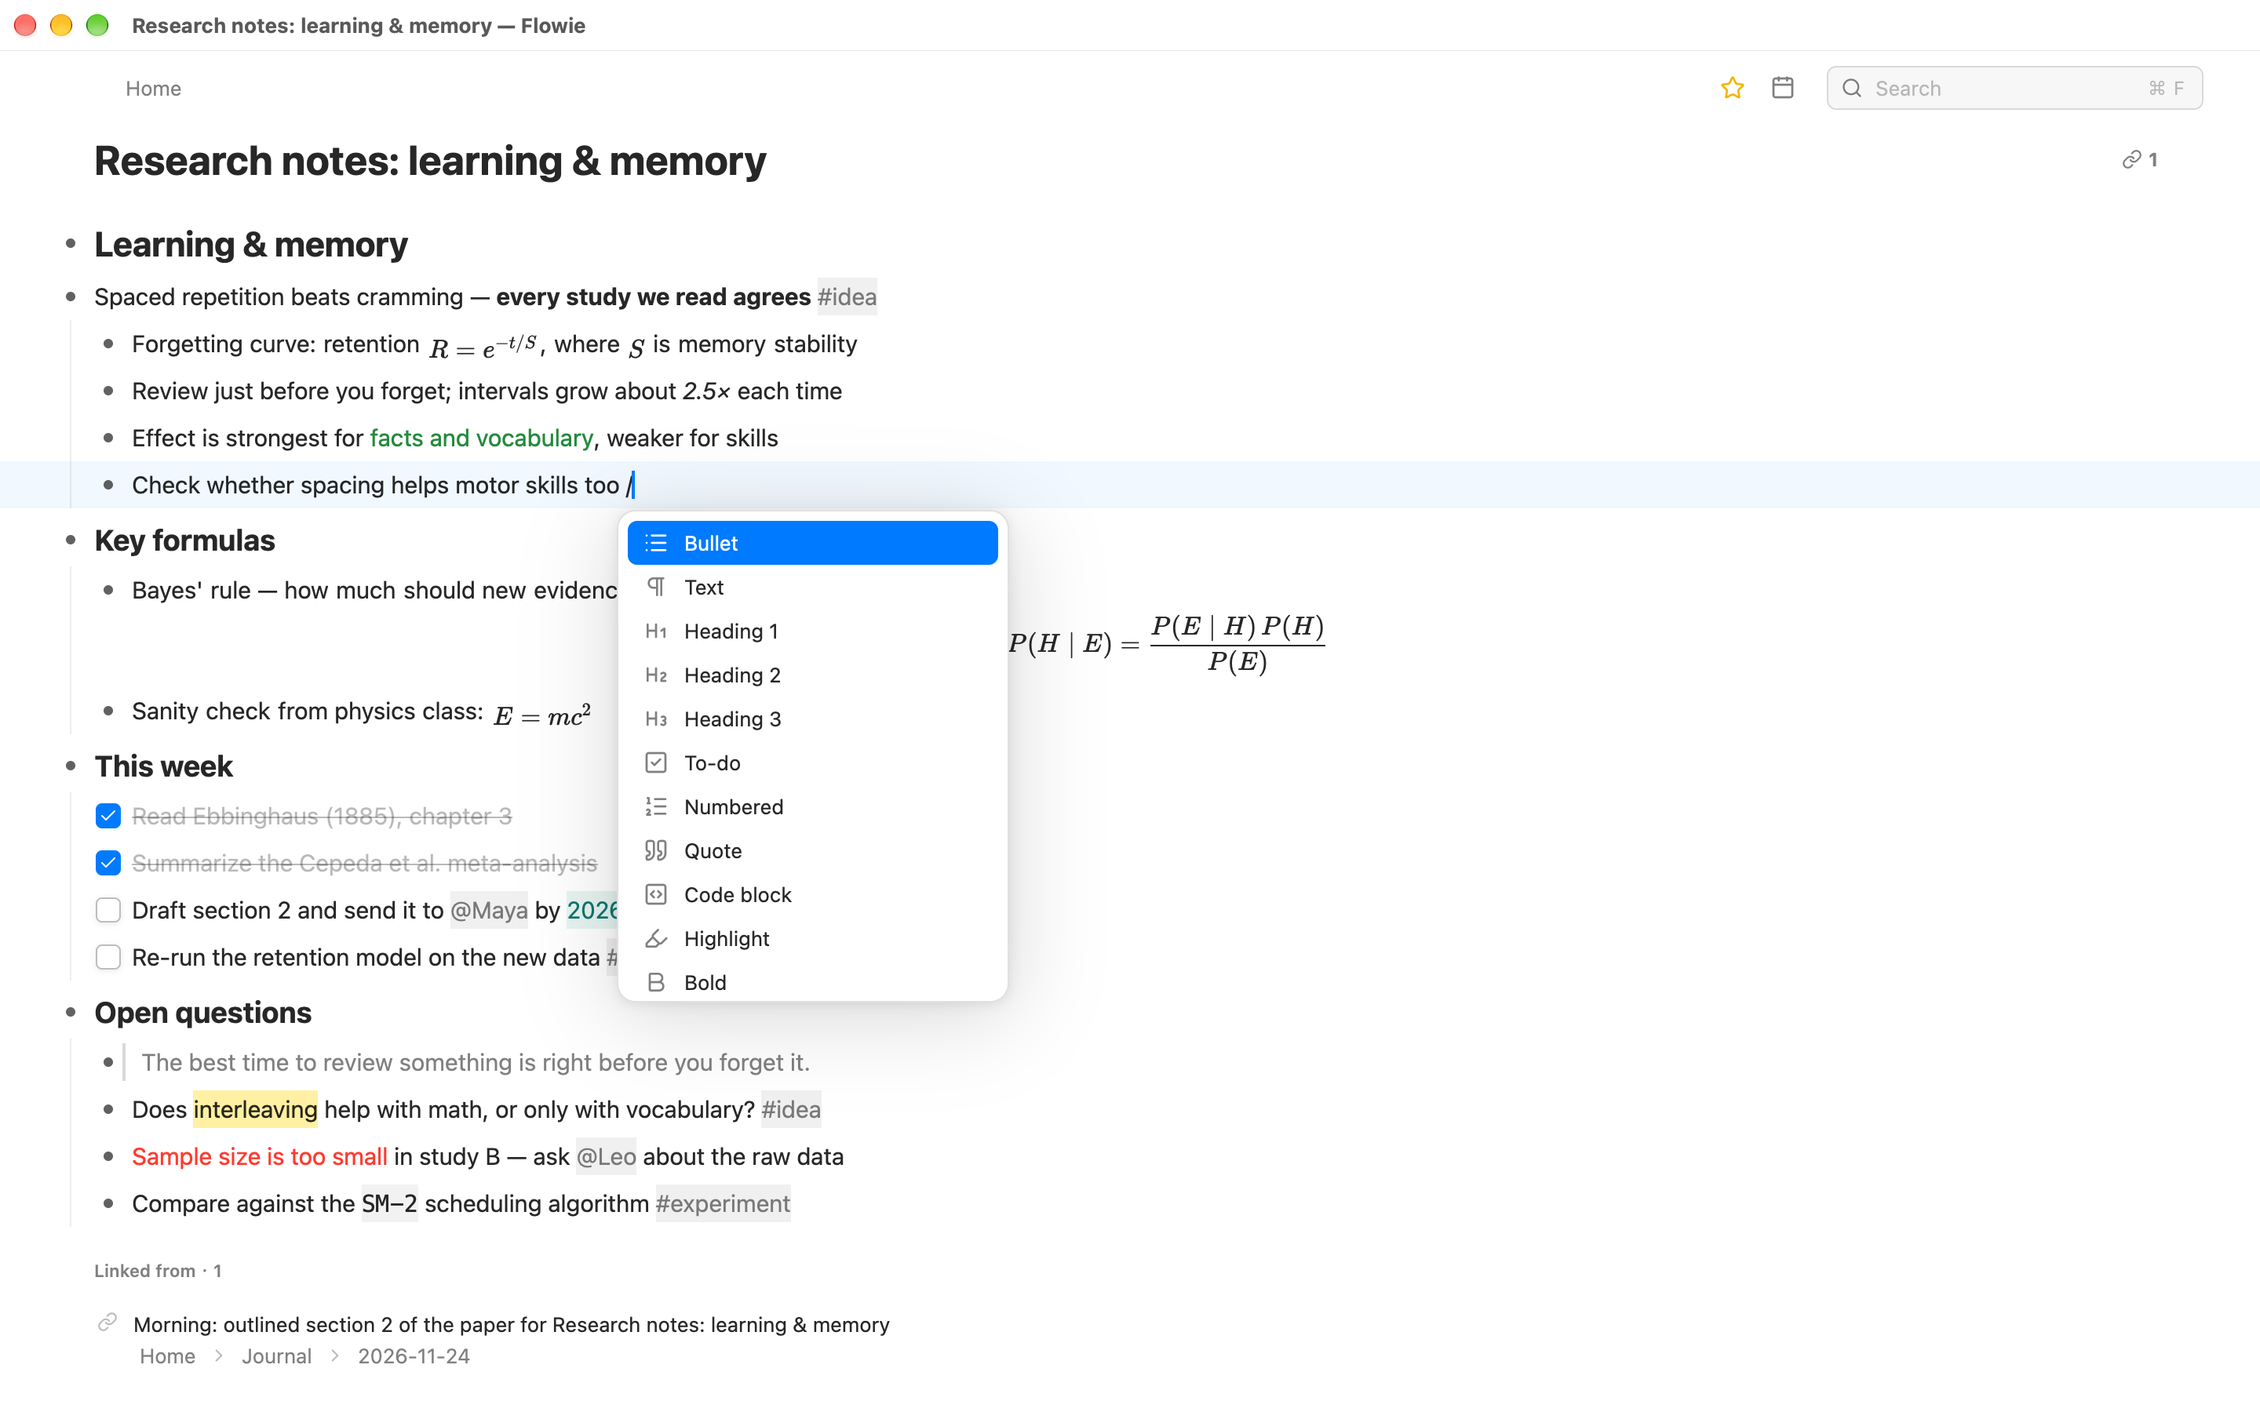
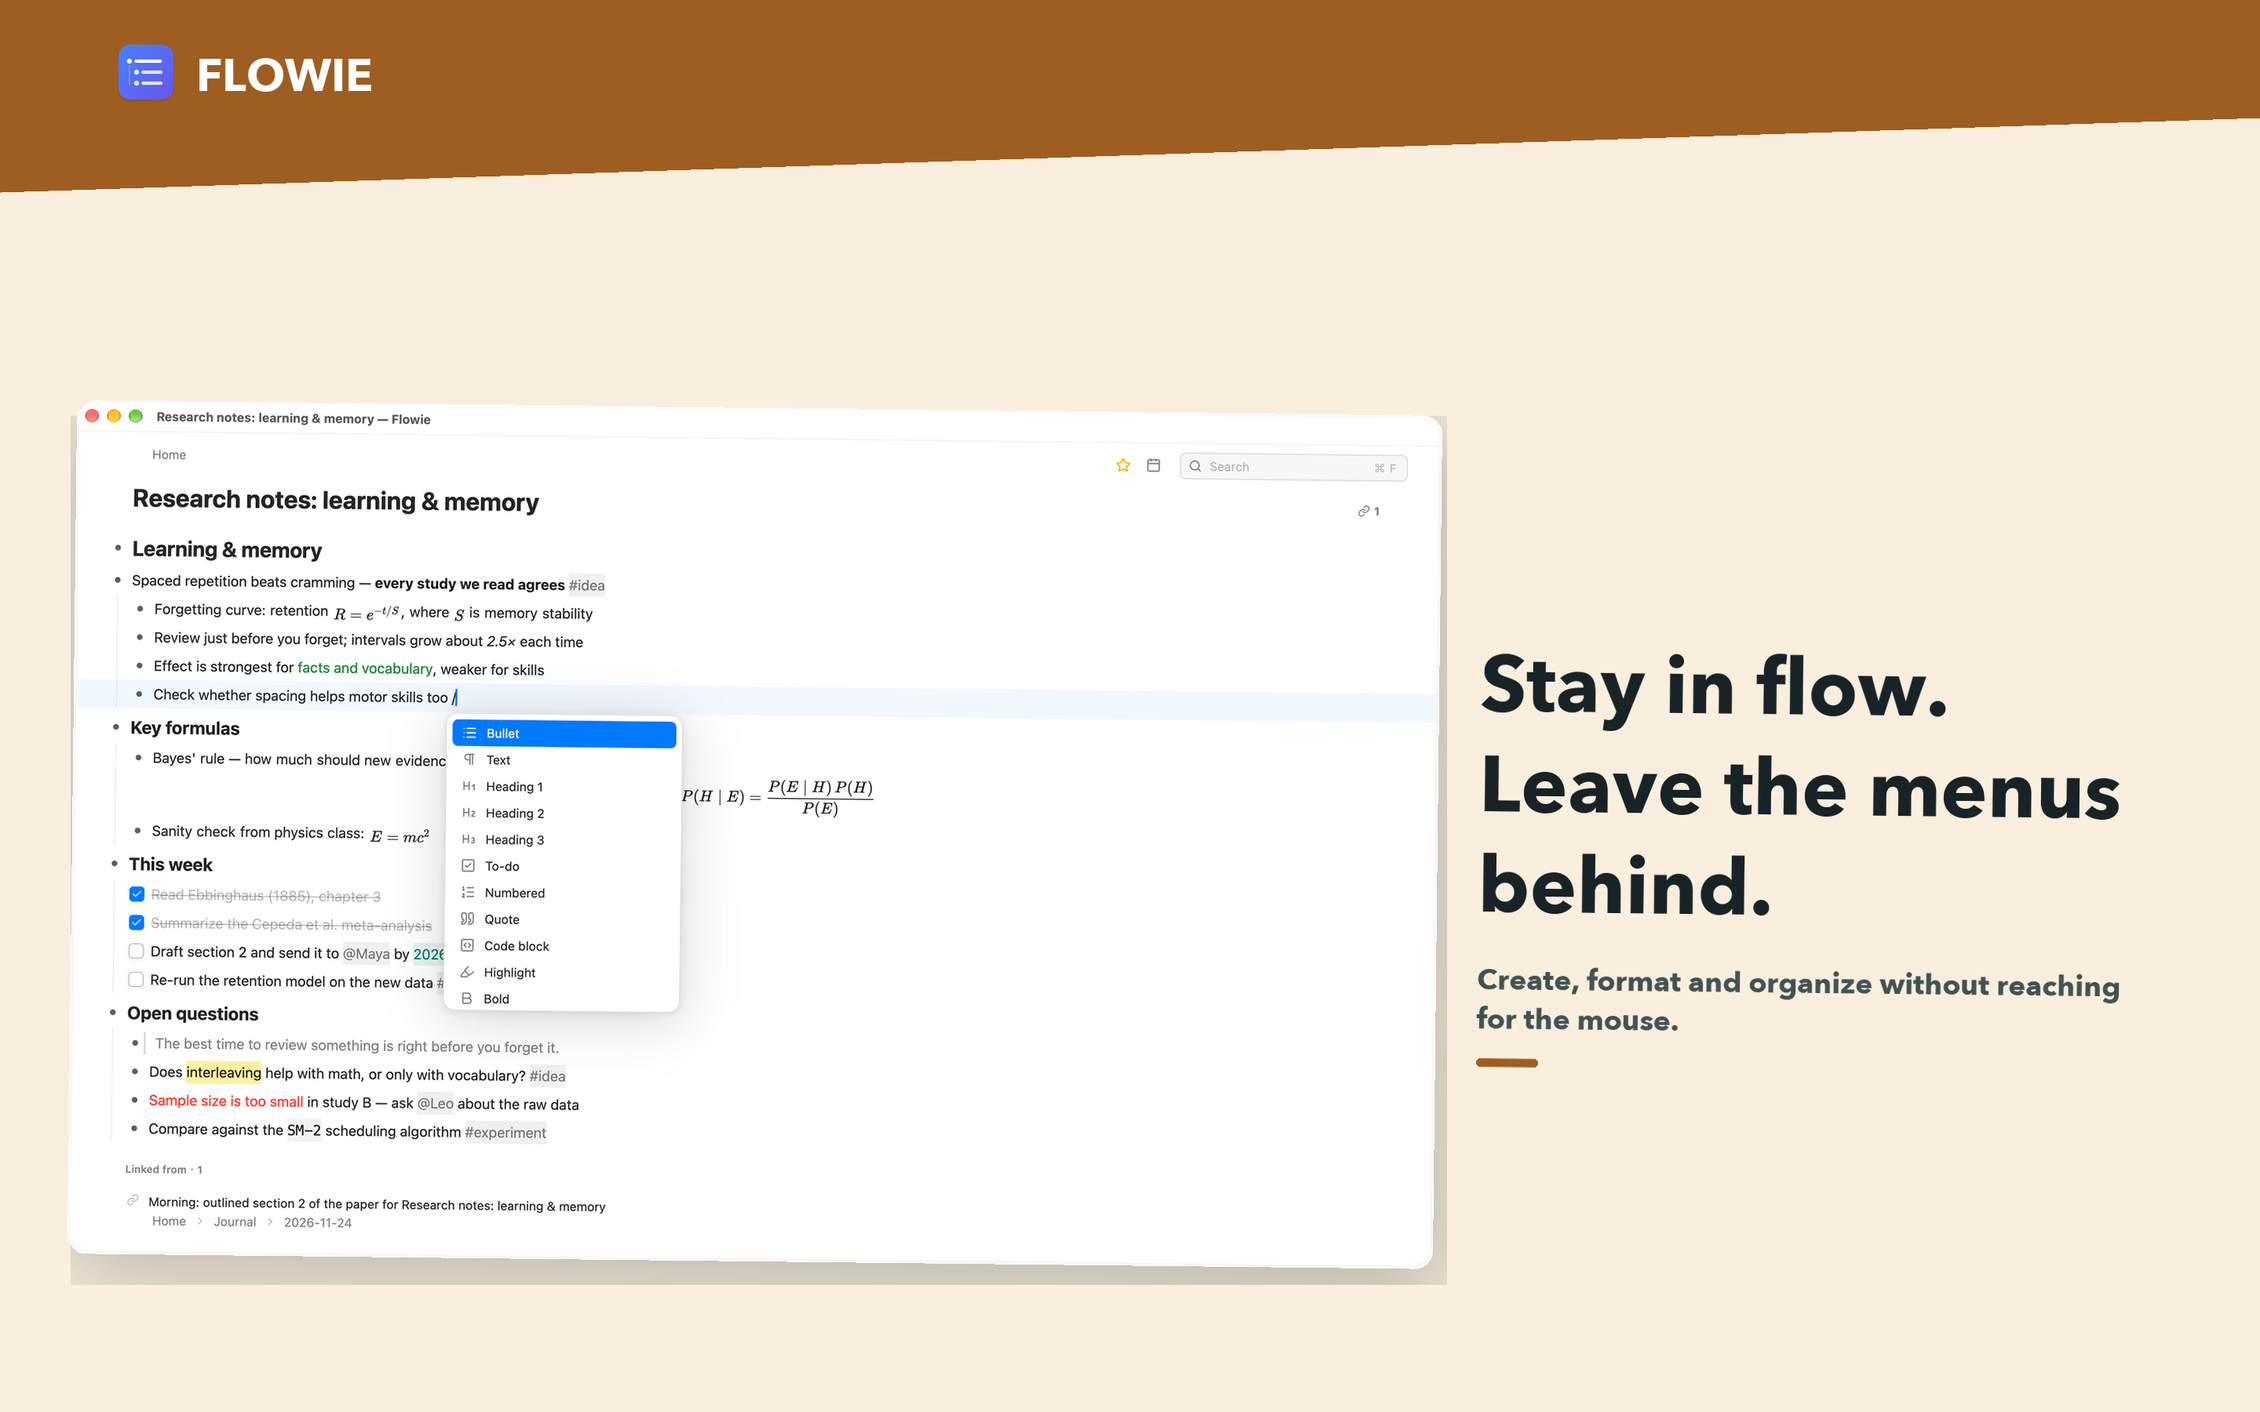
Polish App Store screenshots and website

diff --git a/website/style.css b/website/style.css
@@ -32,8 +32,8 @@
   --radius-window: 12px;
 
   /* Colours — light */
-  --bg: #f5f5f7;
-  --bg-top: #ffffff;
+  --bg: #f4f6f5;
+  --bg-top: #fbfcfa;
   --surface: #ffffff;
   --surface-2: #fbfbfd;
   --sunken: #ececf0;
@@ -42,9 +42,9 @@
   --text-3: #6e6e73;
   --hairline: rgba(0, 0, 0, .1);
   --hairline-strong: rgba(0, 0, 0, .16);
-  --accent: #0066cc;
-  --accent-hover: #0058b0;
-  --glow: rgba(64, 120, 255, .14);
+  --accent: #087c78;
+  --accent-hover: #066561;
+  --glow: rgba(24, 148, 128, .1);
   --toolbar: rgba(246, 246, 248, .78);
   --code-bg: rgba(0, 0, 0, .05);
   --fill: rgba(118, 118, 128, .12);
@@ -75,7 +75,7 @@
   --tint-indigo: #7f86ff, #4a4fd8;
 
   --ease: cubic-bezier(.25, .1, .25, 1);
-  --max: 1080px;
+  --max: 1160px;
   --max-narrow: 760px;
 }
 
@@ -131,7 +131,7 @@ body {
   background: var(--bg) linear-gradient(180deg, var(--bg-top) 0, var(--bg) 560px) no-repeat;
   color: var(--text);
   font: 17px/1.55 var(--font);
-  letter-spacing: -.01em;
+  letter-spacing: 0;
   -webkit-font-smoothing: antialiased;
   -moz-osx-font-smoothing: grayscale;
   overflow-x: hidden;
@@ -153,7 +153,7 @@ a:hover { color: var(--accent-hover); text-decoration: underline; text-underline
 h1, h2, h3 {
   font-family: var(--font-display);
   color: var(--text);
-  letter-spacing: -.022em;
+  letter-spacing: 0;
   line-height: 1.15;
   margin: 0;
 }
@@ -218,7 +218,7 @@ b, strong { font-weight: 600; }
   font-family: var(--font-display);
   font-weight: 600;
   font-size: 17px;
-  letter-spacing: -.01em;
+  letter-spacing: 0;
 }
 .brand:hover { color: var(--text); text-decoration: none; }
 .brand img { width: 28px; height: 28px; filter: drop-shadow(0 1px 1.5px rgba(0, 0, 0, .2)); }
@@ -324,32 +324,28 @@ html:not(.lang-en):not(.lang-zh) .segmented { display: none; }
 .hero {
   position: relative;
   text-align: center;
-  padding: var(--space-9) 0 var(--space-7);
+  padding: var(--space-8) 0 var(--space-6);
 }
 .hero::before {
-  content: "";
-  position: absolute;
-  inset: 0;
-  z-index: -1;
-  background: radial-gradient(600px 300px at 50% 30%, var(--glow), transparent 70%);
-  pointer-events: none;
+  content: none;
 }
 .app-icon {
   display: block;
-  width: 144px;
-  height: 144px;
-  margin: 0 auto var(--space-5);
+  width: 78px;
+  height: 78px;
+  margin: 0;
   filter: drop-shadow(0 2px 4px rgba(0, 0, 0, .12)) drop-shadow(0 14px 24px rgba(0, 0, 0, .16));
 }
+.hero-brand { display: flex; justify-content: center; align-items: center; gap: var(--space-4); }
 .hero h1 {
-  font-size: clamp(40px, 7vw, 64px);
+  font-size: clamp(40px, 6vw, 60px);
   font-weight: 700;
-  letter-spacing: -.035em;
+  letter-spacing: 0;
 }
 .tagline {
-  max-width: 640px;
+  max-width: 700px;
   margin: var(--space-4) auto var(--space-6);
-  font-size: clamp(18px, 2.4vw, 22px);
+  font-size: 19px;
   line-height: 1.45;
   color: var(--text-2);
 }
@@ -362,8 +358,8 @@ html:not(.lang-en):not(.lang-zh) .segmented { display: none; }
 }
 
 /* The desk the main window sits on */
-.stage { padding: var(--space-5) 0 var(--space-8); }
-.stage .window { max-width: 1000px; margin: 0 auto; }
+.stage { padding: var(--space-4) 0 var(--space-8); }
+.stage .window { max-width: 1080px; margin: 0 auto; }
 
 .band { padding: var(--space-8) 0; }
 .band + .band { border-top: .5px solid var(--hairline); }
@@ -377,10 +373,10 @@ html:not(.lang-en):not(.lang-zh) .segmented { display: none; }
 
 .features {
   display: grid;
-  grid-template-columns: repeat(auto-fit, minmax(min(100%, 300px), 1fr));
-  gap: var(--space-5);
+  grid-template-columns: repeat(auto-fit, minmax(min(100%, 340px), 1fr));
+  gap: var(--space-4);
 }
-.feature { padding: var(--space-5); }
+.feature { padding: var(--space-5); border-radius: var(--radius-md); }
 .feature h3 { font-size: 19px; font-weight: 600; margin: var(--space-4) 0 var(--space-2); }
 .feature ul { margin: 0; padding: 0; list-style: none; color: var(--text-2); font-size: 15px; }
 .feature li { position: relative; padding-left: var(--space-4); margin: var(--space-2) 0; }
@@ -425,9 +421,10 @@ html:not(.lang-en):not(.lang-zh) .segmented { display: none; }
 
 .gallery {
   display: grid;
-  grid-template-columns: repeat(auto-fit, minmax(min(100%, 420px), 1fr));
-  gap: var(--space-7) var(--space-6);
+  grid-template-columns: repeat(auto-fit, minmax(min(100%, 500px), 1fr));
+  gap: var(--space-8) var(--space-6);
 }
+.gallery .window img { border-radius: var(--radius-md); }
 
 /* Support: a contact card and a grouped list, like a Settings pane */
 .contact { padding: var(--space-5); margin: 0 0 var(--space-5); color: var(--text-2); }
@@ -511,8 +508,11 @@ html:not(.lang-en):not(.lang-zh) .paper section + section {
     padding: var(--space-1) 0 var(--space-1);
   }
   html { scroll-padding-top: 100px; }
-  .hero { padding: var(--space-8) 0 var(--space-6); }
-  .app-icon { width: 112px; height: 112px; }
+  .hero { padding: var(--space-7) 0 var(--space-5); }
+  .hero-brand { gap: var(--space-3); }
+  .app-icon { width: 56px; height: 56px; }
+  .hero h1 { font-size: 36px; }
+  .tagline { font-size: 17px; margin-top: var(--space-3); }
   .stage { padding-bottom: var(--space-7); }
   .band { padding: var(--space-7) 0; }
   .window img { border-radius: var(--radius-sm); }

diff --git a/website/index.html b/website/index.html
@@ -5,10 +5,9 @@ og_description: A keyboard-first outliner for Mac and Windows. Zoom into any bul
 ---
 <section class="hero">
   <div class="container">
-    <img class="app-icon" src="{{ '/images/icon.png' | relative_url }}" width="256" height="256" alt="">
     {%- for pair in site.data.i18n %}{% assign t = pair[1] %}
     <div class="hero-copy" lang="{{ t.lang }}">
-      <h1>{{ t.name }}</h1>
+      <div class="hero-brand"><img class="app-icon" src="{{ '/images/icon.png' | relative_url }}" width="256" height="256" alt=""><h1>{{ t.name }}</h1></div>
       <p class="tagline">{{ t.tagline }}</p>
       <div class="cta">
         {% include badge.html t=t %}

diff --git a/scripts/appstore-screenshots.py b/scripts/appstore-screenshots.py
@@ -1,0 +1,176 @@
+#!/usr/bin/env -S uv run --script
+# /// script
+# requires-python = ">=3.10"
+# dependencies = ["Pillow>=11.0.0"]
+# ///
+"""Compose bilingual App Store screenshots from the existing app captures."""
+
+from __future__ import annotations
+
+import shutil
+from pathlib import Path
+
+from PIL import Image, ImageDraw, ImageFilter, ImageFont
+
+ROOT = Path(__file__).resolve().parent.parent
+SCREENSHOTS = ROOT / "appstore/fastlane/screenshots"
+SOURCES = ROOT / "appstore/fastlane/screenshots-source"
+SIZE = (2880, 1800)
+EN_FONT = "/System/Library/Fonts/Supplemental/Avenir Next.ttc"
+ZH_FONT = "/System/Library/Fonts/Hiragino Sans GB.ttc"
+ICON = ROOT / "website/images/icon.png"
+
+COPY = {
+    "en-US": {
+        "01-outline": ("Make space for", "the big picture.", "A clear, flexible home for everything on your mind."),
+        "02-quick-open": ("Your next idea,", "one shortcut away.", "Jump to any page or start a new one with ⌘P."),
+        "03-commands": ("Stay in flow.", "Leave the menus behind.", "Create, format and organize without reaching for the mouse."),
+        "04-journal-calendar": ("A little more", "intentional, daily.", "Your journal and calendar, connected to everything else."),
+        "05-search": ("Find the thought", "behind the words.", "Search by tags, tasks, dates and the details you remember."),
+        "06-bullet-menu": ("Ideas change.", "Your outline can too.", "Move, shape and reorganize thoughts as they take form."),
+        "07-links": ("One thought", "leads to another.", "Connect pages and follow the links between your ideas."),
+        "08-dark": ("A workspace", "that feels like yours.", "Set the mood with dark mode and a color you love."),
+        "09-agent": ("Bring AI into", "your train of thought.", "Connect an assistant. You decide what it can access."),
+        "10-images": ("Keep the whole", "story together.", "Add images and captions right where the idea lives."),
+    },
+    "zh-Hans": {
+        "01-outline": ("把思路展开，", "看见全貌。", "清晰灵活的大纲，让想法各有位置。"),
+        "02-quick-open": ("下一条想法，", "一键就出现。", "⌘P 直达任意页面，也可以马上开始新想法。"),
+        "03-commands": ("思路不停，", "双手不离键盘。", "创建、排版、整理，不必切换到鼠标。"),
+        "04-journal-calendar": ("每天留一点，", "给自己的时间。", "日记与日历相连，也与所有想法相连。"),
+        "05-search": ("搜到关键词，", "也搜到那件事。", "按标签、待办、日期和记得的细节筛选。"),
+        "06-bullet-menu": ("想法在变化，", "大纲也能跟上。", "随时移动、调整、重组正在成形的思路。"),
+        "07-links": ("一个想法，", "自然连向另一个。", "连接页面，沿着思路之间的线索继续探索。"),
+        "08-dark": ("工作空间，", "就该合你心意。", "深色模式与喜欢的强调色，营造专属氛围。"),
+        "09-agent": ("让 AI 加入，", "由你掌握边界。", "连接智能助手，并决定它可以访问什么。"),
+        "10-images": ("让想法的故事，", "完整留在一起。", "在内容旁添加图片与说明，让细节不丢失。"),
+    },
+}
+
+PALETTES = [
+    ((231, 244, 236), (31, 104, 78)),
+    ((239, 237, 250), (86, 72, 151)),
+    ((250, 239, 222), (159, 94, 33)),
+    ((224, 241, 243), (31, 111, 127)),
+    ((247, 231, 232), (157, 63, 75)),
+    ((233, 239, 249), (57, 93, 153)),
+    ((241, 237, 225), (131, 99, 43)),
+    ((231, 238, 228), (73, 111, 64)),
+    ((239, 231, 245), (112, 69, 135)),
+    ((247, 237, 222), (155, 91, 34)),
+]
+
+
+def font(path: str, size: int, index: int = 0) -> ImageFont.FreeTypeFont:
+    return ImageFont.truetype(path, size, index=index)
+
+
+def wrap_text(text: str, draw: ImageDraw.ImageDraw, selected_font: ImageFont.FreeTypeFont,
+              max_width: int, chinese: bool) -> list[str]:
+    units = list(text) if chinese else text.split()
+    lines: list[str] = []
+    current = ""
+    for unit in units:
+        candidate = current + unit if chinese else (current + " " + unit).strip()
+        if current and draw.textlength(candidate, font=selected_font) > max_width:
+            lines.append(current)
+            current = unit
+        else:
+            current = candidate
+    if current:
+        lines.append(current)
+    return lines
+
+
+def rounded_window(image: Image.Image, tilt: float, dark: bool, size: tuple[int, int]) -> Image.Image:
+    image = image.resize(size, Image.Resampling.LANCZOS)
+    mask = Image.new("L", image.size, 0)
+    ImageDraw.Draw(mask).rounded_rectangle((0, 0, *image.size), radius=26, fill=255)
+    framed = Image.new("RGBA", image.size, (255, 255, 255, 0))
+    framed.paste(image.convert("RGBA"), (0, 0), mask)
+    edge = ImageDraw.Draw(framed)
+    edge.rounded_rectangle((1, 1, image.width - 2, image.height - 2), radius=26,
+                           outline=(166, 184, 200, 170) if dark else (255, 255, 255, 220), width=3)
+    return framed.rotate(tilt, resample=Image.Resampling.BICUBIC, expand=True)
+
+
+def compose(source: Path, destination: Path, locale: str, key: str, index: int) -> None:
+    title_a, title_b, subtitle = COPY[locale][key]
+    chinese = locale == "zh-Hans"
+    dark = key == "08-dark"
+    background, accent = PALETTES[index % len(PALETTES)]
+    if dark:
+        background, accent = (25, 29, 38), (49, 77, 91)
+    canvas = Image.new("RGB", SIZE, background)
+    draw = ImageDraw.Draw(canvas)
+    display = font(ZH_FONT if chinese else EN_FONT, 104 if chinese else 100)
+    detail = font(ZH_FONT if chinese else EN_FONT, 39 if chinese else 37)
+    wordmark = font(EN_FONT, 58)
+    ink = (248, 248, 250) if dark else (23, 35, 39)
+    secondary = (198, 207, 218) if dark else (65, 82, 84)
+
+    # A shallow angled masthead gives the composition motion without touching the headline.
+    masthead = (18, 22, 30) if dark else accent
+    draw.polygon([(0, 0), (SIZE[0], 0), (SIZE[0], 150), (0, 245)], fill=masthead)
+    brand_icon = Image.open(ICON).convert("RGBA").resize((88, 88), Image.Resampling.LANCZOS)
+    canvas.paste(brand_icon, (142, 48), brand_icon)
+    draw.text((250, 58), "FLOWIE", font=wordmark, fill=(255, 255, 255))
+
+    # Alternate balanced two-column compositions; keep the capture large and readable.
+    image_left = index % 2 == 0
+    tilt = 0.65 if index % 4 < 2 else -0.65
+    image_size = (1740, 1088)
+    window = rounded_window(Image.open(source), tilt, dark, image_size)
+    x = 85 if image_left else SIZE[0] - 85 - window.width
+    y = 510
+
+    text_width, text_height = 900, 760
+    text_layer = Image.new("RGBA", (text_width, text_height), (0, 0, 0, 0))
+    text_draw = ImageDraw.Draw(text_layer)
+    text_anchor = "ra" if not image_left else "la"
+    text_edge = text_width - 10 if not image_left else 10
+    text_top = 180
+    title_lines = wrap_text(title_a, text_draw, display, text_width - 40, chinese)
+    title_lines.extend(wrap_text(title_b, text_draw, display, text_width - 40, chinese))
+    title_y = text_top
+    for line in title_lines:
+        text_draw.text((text_edge, title_y), line, font=display, fill=ink, anchor=text_anchor)
+        title_y += 128
+    subtitle_y = title_y + 34
+    subtitle_lines = wrap_text(subtitle, text_draw, detail, text_width - 40, chinese)
+    text_draw.multiline_text((text_edge, subtitle_y), "\n".join(subtitle_lines), font=detail, fill=secondary,
+                             anchor=text_anchor, spacing=13, align="right" if not image_left else "left")
+    marker_left = text_edge - 78 if not image_left else text_edge
+    text_draw.rounded_rectangle((marker_left, subtitle_y + 125, marker_left + 78, subtitle_y + 135),
+                                radius=5, fill=accent)
+    text_layer = text_layer.rotate(tilt, resample=Image.Resampling.BICUBIC, expand=True)
+    text_x = SIZE[0] - 100 - text_layer.width if image_left else 100
+    text_y = 625
+
+    shadow = Image.new("RGBA", window.size, (16, 28, 36, 0))
+    shadow.putalpha(window.getchannel("A").filter(ImageFilter.GaussianBlur(42)).point(lambda p: int(p * 0.28)))
+    canvas_rgba = canvas.convert("RGBA")
+    canvas_rgba.alpha_composite(shadow, (x + 5, y + 20))
+    canvas_rgba.alpha_composite(window, (x, y))
+    canvas_rgba.alpha_composite(text_layer, (text_x, text_y))
+    canvas = canvas_rgba.convert("RGB")
+    canvas.save(destination, format="PNG", optimize=True)
+
+
+def main() -> None:
+    for locale, copy in COPY.items():
+        source_dir = SOURCES / locale
+        source_dir.mkdir(parents=True, exist_ok=True)
+        output_dir = SCREENSHOTS / locale
+        for index, (key, _) in enumerate(copy.items()):
+            filename = f"{key}.png"
+            original = source_dir / filename
+            output = output_dir / filename
+            if not original.exists():
+                shutil.copy2(output, original)
+            compose(original, output, locale, key, index)
+            print(f"{locale}/{filename}")
+
+
+if __name__ == "__main__":
+    main()
